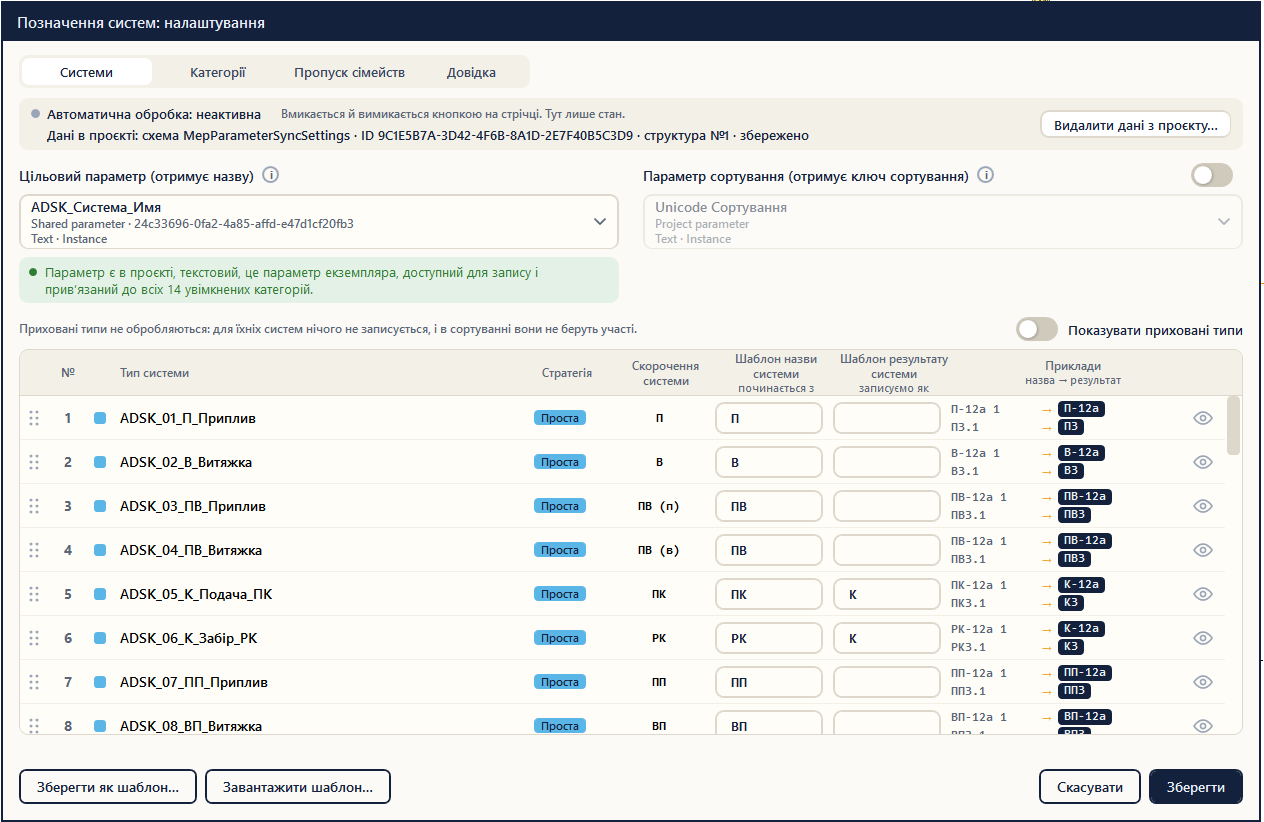
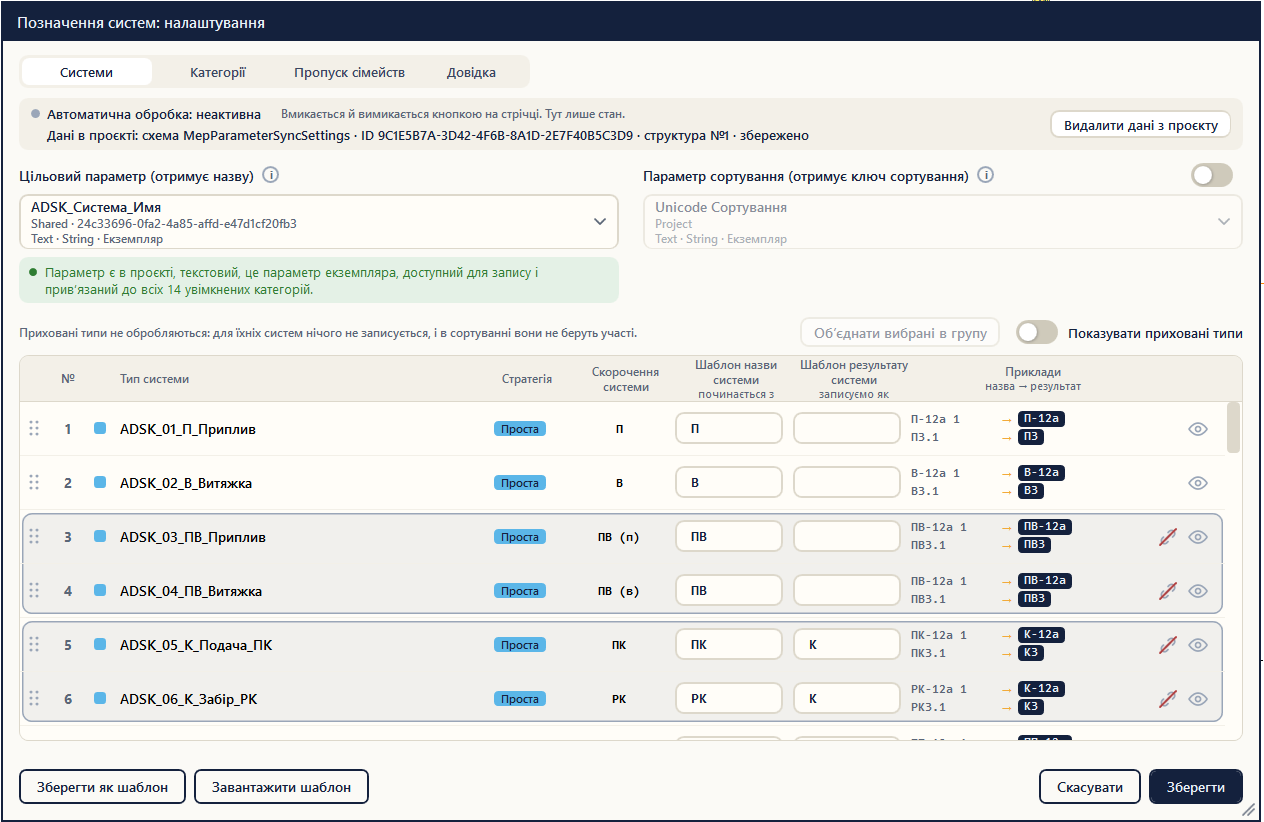
Site 1.7.2: version, new screenshot of the System Marks settings with groups, texts about groups

diff --git a/docs/mep-parameter-sync.html b/docs/mep-parameter-sync.html
@@ -206,7 +206,7 @@ window.HVAC_PAGE = { key: "mep", title: "mep.name", T: {
       "k1.t": "Журнал запусків", "k1.p": "Кожне заповнення, очищення й зміна моделі в автоматичному режимі: скільки змінено, не змінено, пропущено, проблем і помилок, час. Фільтр за видом запису, пошук за ID елемента, експорт повного запису в CSV для Excel.",
       "k2.t": "Вікно проблем", "k2.p": "Назви, що не підходять під правило типу, копіюються як є й потрапляють у список. Для кожної пари: «Виділити все» в моделі, «Перейменувати на…» (перейменовує систему) або «Залишити як є» (більше не повідомляти).",
       "k3.t": "Звіт і прогрес", "k3.p": "Під час заповнення видно лічильник, записані значення й час. Підсумковий звіт розбито за категоріями. Елемент, який редагує інший користувач, рахується окремо.",
-      "k4.t": "Налаштування", "k4.p": "Параметри, категорії, пропущені сімейства, типи систем з порядком, шаблони (зберегти у файл і завантажити). Кожна фраза пропуску каже, чи назва «починається з», чи «містить». Журнали задаються в загальних налаштуваннях.",
+      "k4.t": "Налаштування", "k4.p": "Параметри, категорії, пропущені сімейства, типи систем з порядком, шаблони (зберегти у файл і завантажити). Типи систем можна збирати в групи (Ctrl+клік і кнопка об’єднання): група має одну нумерацію та один ключ сортування. Кожна фраза пропуску каже, чи назва «починається з», чи «містить». Журнали задаються в загальних налаштуваннях.",
       "faq.eyebrow": "Питання", "faq.title": "Часті питання",
       "q1.q": "Чи сповільнює плагін Revit?", "q1.a": "Під час запуску завантажується лише стрічка. Вікна й налаштування відкриваються при першому натисканні.",
       "q2.q": "Де зберігаються налаштування?", "q2.a": "У самому проєкті. Для переносу в інший проєкт: «Зберегти як шаблон» у файл, потім «Завантажити шаблон» і «Зберегти». Дані плагіна можна прибрати з проєкту кнопкою «Видалити дані з проєкту».",
@@ -256,7 +256,7 @@ window.HVAC_PAGE = { key: "mep", title: "mep.name", T: {
       "k1.t": "Run history", "k1.p": "Every fill, clear and model change in the automatic mode: how many changed, unchanged, skipped, problems and errors, time. Filter by kind, search by element ID, export the full record to CSV for Excel.",
       "k2.t": "Problems window", "k2.p": "Names that do not fit the rule of the type are copied as they are and listed. For each pair: “Select all” in the model, “Rename to…” (renames the system) or “Keep as is” (not reported again).",
       "k3.t": "Report and progress", "k3.p": "While filling you see the counter, the written values and the time. The final report is split by category. An element being edited by another user is counted separately.",
-      "k4.t": "Settings", "k4.p": "Parameters, categories, skipped families, system types with the order, templates (save to a file and load). Each skipped phrase says whether the name starts with it or contains it. The logs are set in General Settings.",
+      "k4.t": "Settings", "k4.p": "Parameters, categories, skipped families, system types with the order, templates (save to a file and load). System types can be gathered into groups (Ctrl+click and the group button): a group has one numbering and one sort key. Each skipped phrase says whether the name starts with it or contains it. The logs are set in General Settings.",
       "faq.eyebrow": "FAQ", "faq.title": "Frequently asked questions",
       "q1.q": "Does the plugin slow Revit down?", "q1.a": "Only the ribbon loads at start. Windows and settings open on the first click.",
       "q2.q": "Where are the settings stored?", "q2.a": "In the project itself. To move them to another project: “Save as template” to a file, then “Load template” and “Save”. The plug-in data can be removed from the project with “Remove data from the project”.",
@@ -306,7 +306,7 @@ window.HVAC_PAGE = { key: "mep", title: "mep.name", T: {
       "k1.t": "Журнал запусков", "k1.p": "Каждое заполнение, очистка и изменение модели в автоматическом режиме: сколько изменено, не изменено, пропущено, проблем и ошибок, время. Фильтр по виду записи, поиск по ID элемента, экспорт полной записи в CSV для Excel.",
       "k2.t": "Окно проблем", "k2.p": "Имена, не подходящие под правило типа, копируются как есть и попадают в список. Для каждой пары: «Выделить все» в модели, «Переименовать в…» (переименовывает систему) или «Оставить как есть» (больше не сообщать).",
       "k3.t": "Отчёт и прогресс", "k3.p": "Во время заполнения видны счётчик, записанные значения и время. Итоговый отчёт разбит по категориям. Элемент, который правит другой пользователь, считается отдельно.",
-      "k4.t": "Настройки", "k4.p": "Параметры, категории, пропускаемые семейства, типы систем с порядком, шаблоны (сохранить в файл и загрузить). Каждая фраза пропуска говорит, «начинается с» название или «содержит». Журналы задаются в общих настройках.",
+      "k4.t": "Настройки", "k4.p": "Параметры, категории, пропускаемые семейства, типы систем с порядком, шаблоны (сохранить в файл и загрузить). Типы систем можно собирать в группы (Ctrl+клик и кнопка объединения): у группы одна нумерация и один ключ сортировки. Каждая фраза пропуска говорит, «начинается с» название или «содержит». Журналы задаются в общих настройках.",
       "faq.eyebrow": "Вопросы", "faq.title": "Частые вопросы",
       "q1.q": "Замедляет ли плагин Revit?", "q1.a": "При запуске загружается только лента. Окна и настройки открываются при первом нажатии.",
       "q2.q": "Где хранятся настройки?", "q2.a": "В самом проекте. Чтобы перенести в другой проект: «Сохранить как шаблон» в файл, затем «Загрузить шаблон» и «Сохранить». Данные плагина можно убрать из проекта кнопкой «Удалить данные из проекта».",

diff --git a/docs/index.html b/docs/index.html
@@ -86,7 +86,7 @@ details[open] summary::after { content: "−"; }
           <a class="btn ghost" href="#plugins" data-i18n="hero.plugins"></a>
         </div>
         <div class="meta">
-          <span class="chip"><span data-i18n="hero.version"></span> <b class="verx">1.7.1</b></span>
+          <span class="chip"><span data-i18n="hero.version"></span> <b class="verx">1.7.2</b></span>
           <span class="chip">Revit <b>2023–2027</b></span>
           <span class="chip">UA · EN · RU</span>
           <span class="chip" data-i18n="hero.free"></span>

diff --git a/docs/distribute.html b/docs/distribute.html
@@ -31,7 +31,7 @@
     </div>
     <div class="meta">
       <span class="chip">Revit 2023–2027</span>
-      <span class="chip"><span data-i18n="hero.version"></span> <b class="verx">1.7.1</b></span>
+      <span class="chip"><span data-i18n="hero.version"></span> <b class="verx">1.7.2</b></span>
       <span class="chip" data-i18n="hero.free"></span>
       <span class="chip">UA · EN · RU</span>
     </div>

diff --git a/docs/flextail.html b/docs/flextail.html
@@ -31,7 +31,7 @@
     </div>
     <div class="meta">
       <span class="chip">Revit 2023–2027</span>
-      <span class="chip"><span data-i18n="hero.version"></span> <b class="verx">1.7.1</b></span>
+      <span class="chip"><span data-i18n="hero.version"></span> <b class="verx">1.7.2</b></span>
       <span class="chip" data-i18n="hero.free"></span>
       <span class="chip">UA · EN · RU</span>
     </div>

diff --git a/docs/quickflexconnect.html b/docs/quickflexconnect.html
@@ -31,7 +31,7 @@
     </div>
     <div class="meta">
       <span class="chip">Revit 2023–2027</span>
-      <span class="chip"><span data-i18n="hero.version"></span> <b class="verx">1.7.1</b></span>
+      <span class="chip"><span data-i18n="hero.version"></span> <b class="verx">1.7.2</b></span>
       <span class="chip" data-i18n="hero.free"></span>
       <span class="chip">UA · EN · RU</span>
     </div>

diff --git a/docs/site.js b/docs/site.js
@@ -49,7 +49,7 @@
   merge(PAGE.T);
 
   var lang = "uk", listeners = [];
-  var H = window.HVAC = { page: PAGE.key || "", version: "1.7.1", repo: REPO };
+  var H = window.HVAC = { page: PAGE.key || "", version: "1.7.2", repo: REPO };
   H.t = function (k) { return (T[lang] && T[lang][k]) || T.en[k] || k; };
   H.lang = function () { return lang; };
   H.addStrings = function (d) { merge(d); };
